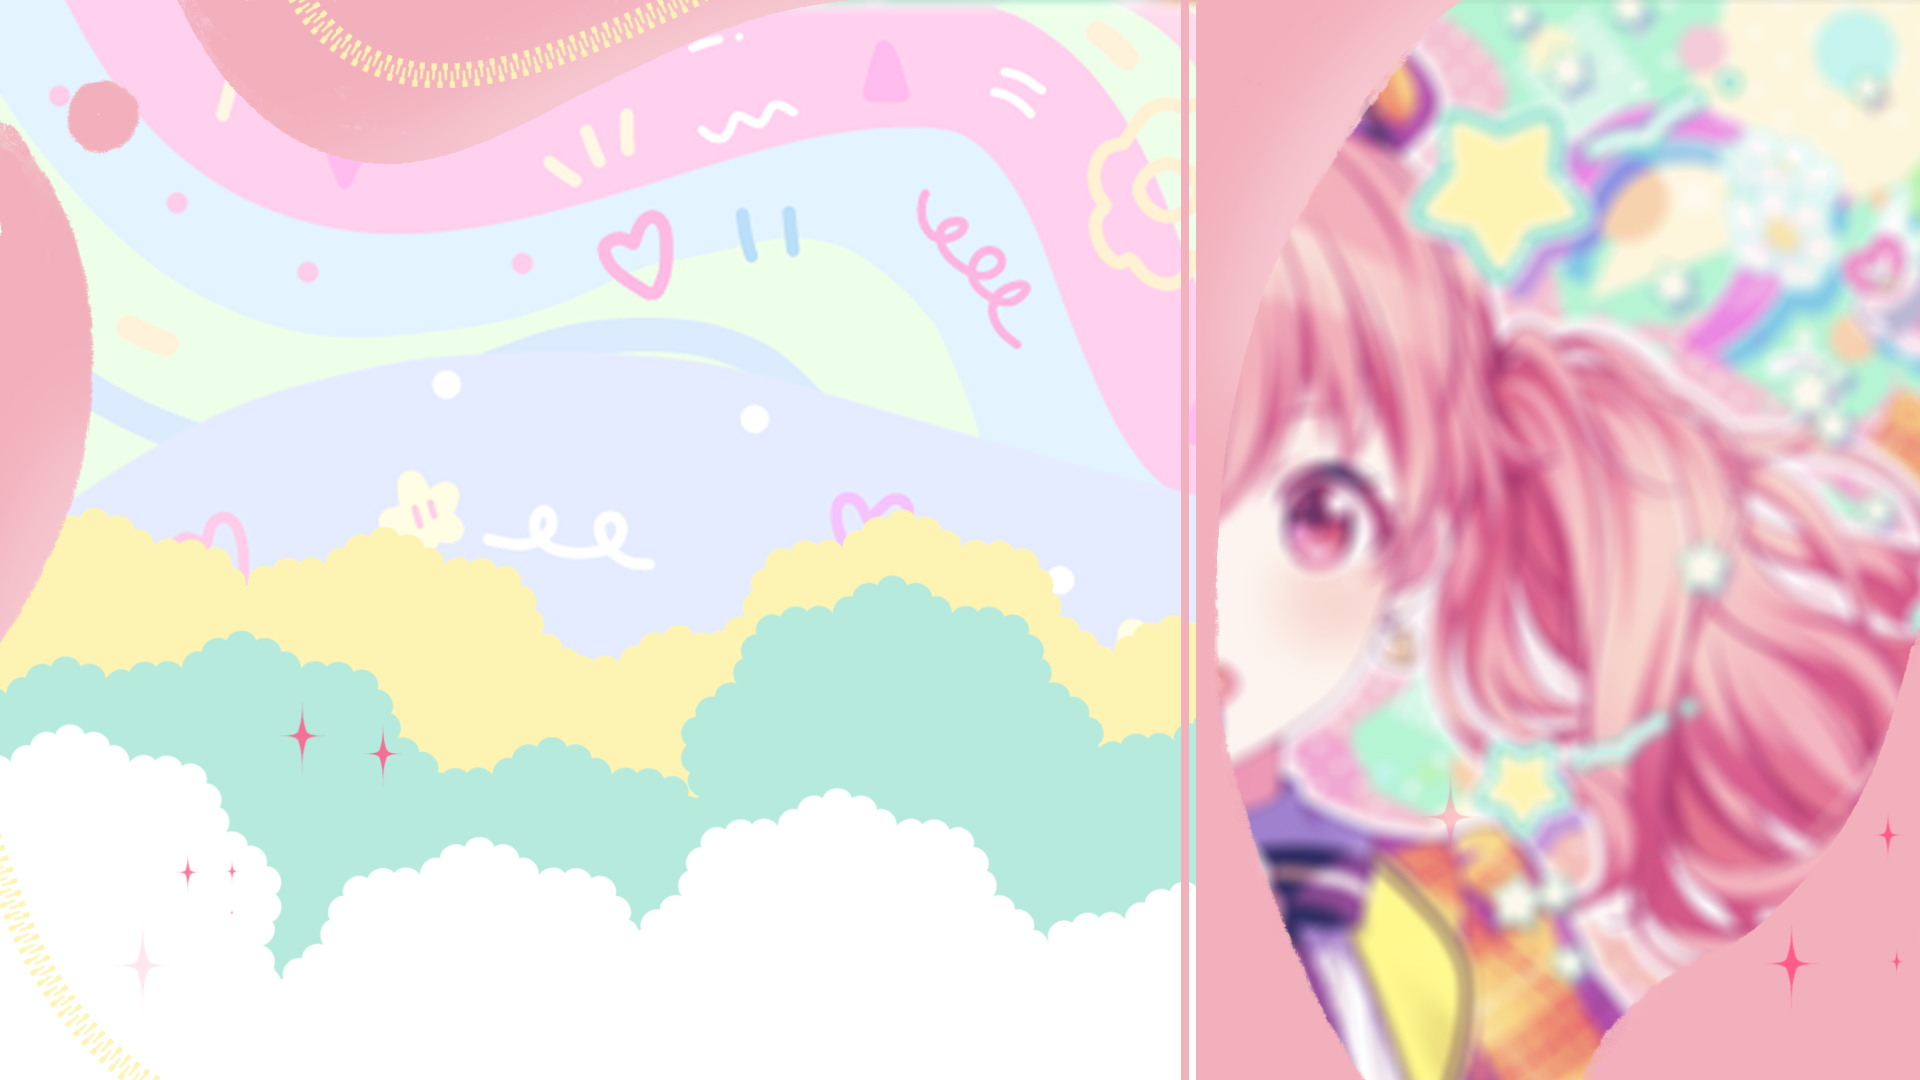
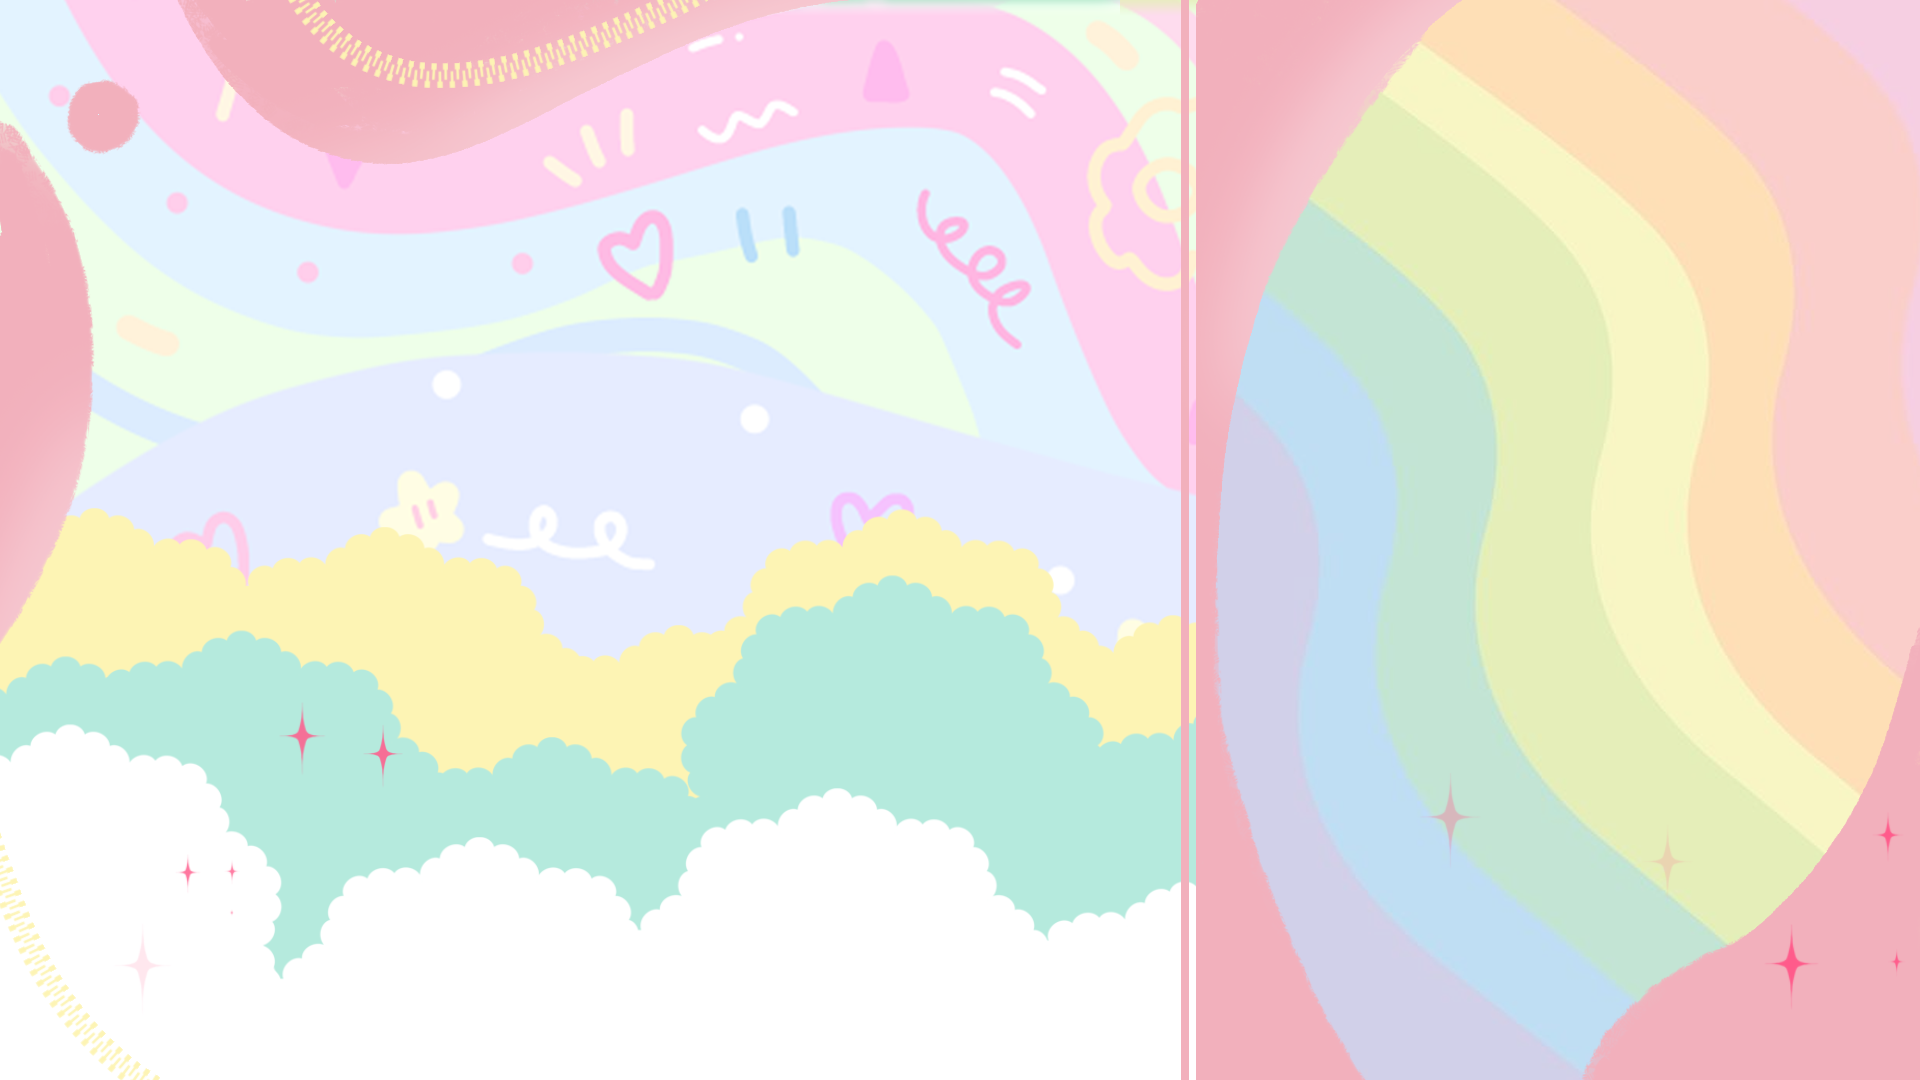
V1.9

Changed region(s): [[0.625, 0.0, 1.0, 1.0]]

diff --git a/client/src/app/components/home/home.component.html b/client/src/app/components/home/home.component.html
@@ -1,6 +1,14 @@
-<!--Div for Background-->
+<!--Div for detail home-->
+<div class="details" *ngIf="show == false">
+  <app-home-details></app-home-details>
+</div>
+
+
+<!--Div for normal home-->
+<div class="home">
 <div class="bk">
-  <img class="agent circle" src="https://i.pinimg.com/564x/1d/41/19/1d411999f93cddde118121ce477e8981.jpg" alt="Honeii" frameborder="0">
+  <img class="agent circle" src="https://i.pinimg.com/564x/1d/41/19/1d411999f93cddde118121ce477e8981.jpg" alt="Honeii"
+   frameborder="0" (click)="show = !show">
 </div>
 <div class="bk-desing">
   <img class="star" src="https://data.whicdn.com/images/347738331/original.gif" alt="stars" frameborder="0">
@@ -19,6 +27,9 @@
       <p> <input class="InputStyle" placeholder="¿Cuál es tu nombre?" (keyup.enter)="routerToChat()"
         style="font-family:Arial, FontAwesome" type="text" [(ngModel)]="User.name" > </p>
   </div>
-  <a href="#" class="goChat btn" style="background-color: transparent;"
-  [routerLink]="['/chat', User.name]">Ir al chat</a>
+  <img href="#" class="goChat btn" [routerLink]="['/chat', User.name]"
+  src="https://i.postimg.cc/BbMZ5NmY/button.png">
+</div>
+
+
 

diff --git a/client/src/app/components/home/home.component.css b/client/src/app/components/home/home.component.css
@@ -84,7 +84,7 @@
 
 .centered {
   position: absolute;
-  top: 57%;
+  top: 61%;
   left: 50%;
   transform: translate(-50%, -50%);
   width: 350px;
@@ -95,9 +95,11 @@
 
 
 .goChat{
+  width: 155px;
+  height: 40px;
   color: rgb(243, 107, 107);
   position: absolute;
-  top: 39%;
+  top: 45%;
   left: 50%;
   transform: translate(-50%, -50%);
   z-index: 4;
@@ -108,7 +110,9 @@
   border: solid 1px rgb(243, 107, 107);
   background: transparent;
   width: 300px;
-  padding: 10px 20px
+  padding: 10px 20px;
+  z-index: 6;
+
 }
 
 input,
@@ -139,7 +143,13 @@ input:focus {
 }
 
 
-/*Comment.. */
+.details{
+  z-index: 10;
+  background-color: transparent;
+  position: absolute;
+}
+
+/*Comment..
 .secondLine {
   font-weight: 350;
   font-size: 15px;
@@ -148,12 +158,12 @@ input:focus {
 }
 
 
-/*Title... */
+Title...
 .firstLine {
   font-size: 30px;
   color: rgb(233, 119, 153)
 }
-
+*/
 @media only screen and (max-width: 600px) {
   .firstLine {
       font-size: 20px

diff --git a/client/src/app/components/home-details/home-details.component.spec.ts b/client/src/app/components/home-details/home-details.component.spec.ts
@@ -1,0 +1,25 @@
+import { ComponentFixture, TestBed } from '@angular/core/testing';
+
+import { HomeDetailsComponent } from './home-details.component';
+
+describe('HomeDetailsComponent', () => {
+  let component: HomeDetailsComponent;
+  let fixture: ComponentFixture<HomeDetailsComponent>;
+
+  beforeEach(async () => {
+    await TestBed.configureTestingModule({
+      declarations: [ HomeDetailsComponent ]
+    })
+    .compileComponents();
+  });
+
+  beforeEach(() => {
+    fixture = TestBed.createComponent(HomeDetailsComponent);
+    component = fixture.componentInstance;
+    fixture.detectChanges();
+  });
+
+  it('should create', () => {
+    expect(component).toBeTruthy();
+  });
+});

diff --git a/client/src/app/app.module.ts b/client/src/app/app.module.ts
@@ -10,13 +10,15 @@ import { AppRoutingModule } from './app-routing.module';
 import { AppComponent } from './app.component';
 import { ChatComponent } from './components/chat/chat.component';
 import { HomeComponent } from './components/home/home.component';
+import { HomeDetailsComponent } from './components/home-details/home-details.component';
 
 
 @NgModule({
   declarations: [
     AppComponent,
     ChatComponent,
-    HomeComponent
+    HomeComponent,
+    HomeDetailsComponent
   ],
   imports: [
     BrowserModule,

diff --git a/client/src/app/components/home-details/home-details.component.ts b/client/src/app/components/home-details/home-details.component.ts
@@ -1,0 +1,15 @@
+import { Component, OnInit } from '@angular/core';
+
+@Component({
+  selector: 'app-home-details',
+  templateUrl: './home-details.component.html',
+  styleUrls: ['./home-details.component.css']
+})
+export class HomeDetailsComponent implements OnInit {
+
+  constructor() { }
+
+  ngOnInit(): void {
+  }
+
+}

diff --git a/client/src/app/components/home/home.component.ts b/client/src/app/components/home/home.component.ts
@@ -19,6 +19,8 @@ export class HomeComponent implements OnInit {
     name: ''
   }
 
+  show:boolean = true;
+
   routerToChat(){
     this.router.navigateByUrl('/chat/'+ this.User.name);
   }

diff --git a/client/src/app/components/home-details/home-details.component.css b/client/src/app/components/home-details/home-details.component.css
@@ -1,0 +1,8 @@
+.bg {
+  width: 100%;
+  height: 100%;
+  min-height: 100vh;
+  background-color: black;
+  background-size: 100% 100%;
+  background-position: top center
+}

diff --git a/client/src/app/components/home-details/home-details.component.html b/client/src/app/components/home-details/home-details.component.html
@@ -1,0 +1,3 @@
+<div class="bg">
+<p>asd</p>
+</div>
